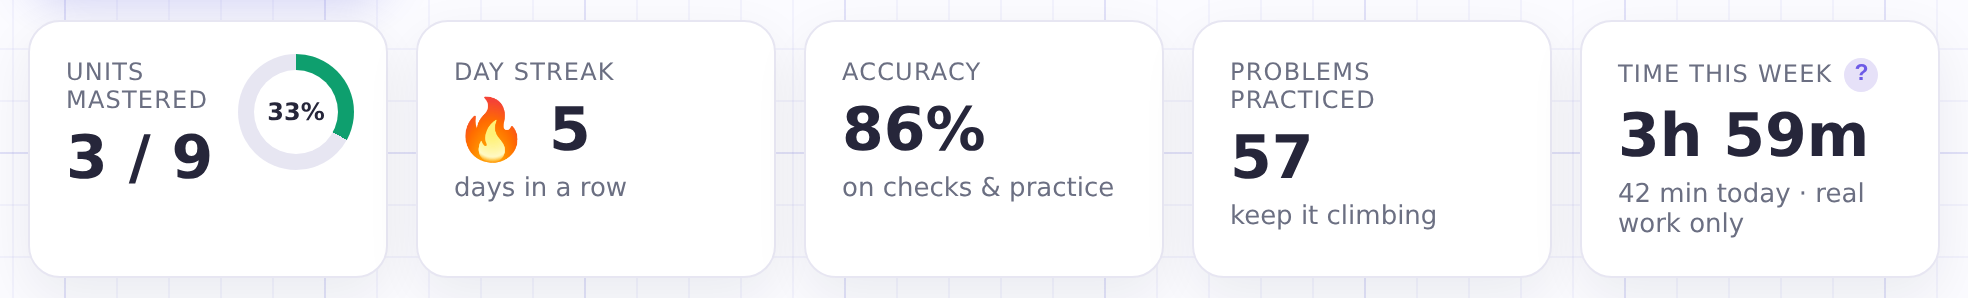
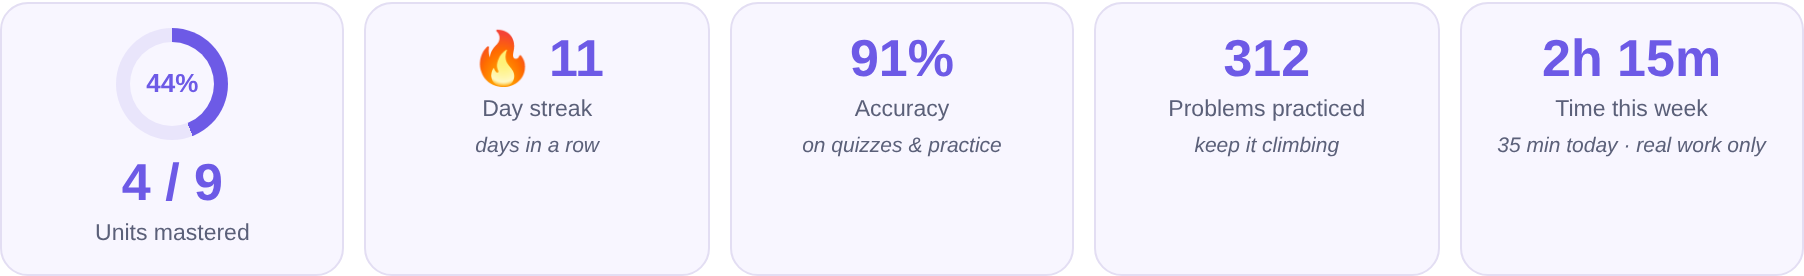
n

diff --git a/static/homeschool.html b/static/homeschool.html
@@ -1,5 +1,15 @@
 <!DOCTYPE html>
 <!--
+    (fd) 2026-08-13 -- SCREENSHOT REFRESH + ONE STUDENT, ONE SET OF NUMBERS. All the
+    shots on this page were re-captured from the CURRENT demo, and re-capturing them
+    exposed that this page told a visitor three different stories about the same named
+    sample student: the honest-hours paragraph and the tile picture under it said "3h 59m"
+    while the tile itself now reads 2h 15m, and the weekly-email preview claimed "best
+    check 72%" on Decimals when Maya's dashboard shows two topic quizzes passed at 88% and
+    92%. Every number on this page is now Maya's real demo record -- 2h 15m across 5 days,
+    Decimals with two topic quizzes passed and the Unit Quiz still ahead. That matters
+    more here than anywhere: this is the page that promises the records can be filed with
+    a straight face. Nothing else changed; the FAQ is byte-identical.
     (ef) 2026-08-12 -- THE CONFERENCE PITCH REWORK (Jim, from a homeschooling
     conference: "lead with and strengthen these points"). Same content, new spine.
     The page now leads with what homeschool families told us matters most and answers
@@ -298,9 +308,9 @@
   <h2 style="text-align:center">We track time the way a homeschool log needs it — <span class="grad-text">real work only</span>.</h2>
   <p class="sub" style="text-align:center;margin-top:8px">Mr. Cadabra's Classroom counts a minute only when the lesson tab is actually open
   <b>and</b> your student is actually doing something. Walk away, switch tabs, leave it running — the clock stops.
-  So "3h 59m this week" means three hours and fifty-nine minutes of <i>math</i>, a number you can put in an
+  So "2h 15m this week" means two hours and fifteen minutes of <i>math</i>, a number you can put in an
   instructional-hours log with a straight face.</p>
-  <img class="shot" src="/static/shots/timetile.png" style="margin-top:22px" alt="Dashboard tiles: units mastered, day streak, accuracy, problems practiced, and time this week — 3h 59m, real work only" />
+  <img class="shot" src="/static/shots/timetile.png" style="margin-top:22px" alt="Dashboard tiles: units mastered, day streak, accuracy, problems practiced, and time this week — 2h 15m, real work only" />
   <p class="cap">Every dashboard shows it: today, this week, per course. <i>(Sample data.)</i></p>
 </section>
 
@@ -355,9 +365,9 @@
         <p style="font-size:13px;color:var(--muted);letter-spacing:.04em;text-transform:uppercase;font-weight:700">Preview</p>
         <p style="font-size:15px;margin-top:8px"><b>Maya's week with Mr. Cadabra's Classroom</b></p>
         <ul class="units" style="margin-top:10px">
-          <li><b>⏱</b> 3h 59m of real work across 5 days</li>
+          <li><b>⏱</b> 2h 15m of real work across 5 days</li>
           <li><b>★</b> Mastered: Fractions (check score 92%)</li>
-          <li><b>↗</b> Working on: Decimals — best check 72%</li>
+          <li><b>↗</b> Working on: Decimals — two topic quizzes passed, Unit Quiz still to come</li>
           <li><b>💡</b> This week: ten minutes of percent practice would go a long way</li>
         </ul>
       </div>

diff --git a/static/students.html b/static/students.html
@@ -1,5 +1,13 @@
 <!DOCTYPE html>
 <!--
+    (fd) 2026-08-13 -- SCREENSHOT REFRESH + ALT TEXT MADE TRUE. shots/dashboard-full.png
+    was re-captured from the CURRENT demo and is now the WHOLE student dashboard (all
+    eleven cards, top to trophy case), because the caption under it on this page promises
+    "the whole picture -- trophies, badges, journey, and honest stats" and the old shot
+    stopped well short of the trophy case. The alt text described cards that are not in
+    the picture at all ("NEW! tags", "merit badge count", "next-award nudge", "mastery
+    breakdown bar") and is rewritten to name what a sighted visitor actually sees, in
+    order. Copy otherwise untouched.
     (eb) 2026-08-11 -- STUDENT FAQ AT THE BOTTOM (Jim: "a FAQ section on the bottom of the
     homeschool, the parent, teacher and student pages... different FAQs because they have
     different questions, especially the students"). Eight questions in a student's own
@@ -276,7 +284,7 @@
     "Strengthen next" when you want the fastest win.</p>
   </div>
   <img class="shot" src="/static/shots/dashboard-full.png" style="margin-top:24px"
-       alt="The full student dashboard: the trophy case with earned medals and NEW! tags, merit badge count, next-award nudge, stat tiles, strengthen-next suggestions, the nine-unit learning journey with gold mastered units, and the mastery breakdown bar" />
+       alt="The full student dashboard: a written note on how the student is doing, stat tiles for units mastered, day streak, accuracy, problems practiced and honest time, the nine-unit grid with gold mastered units, quiz results, strengthen-next suggestions, the learning journey path, accuracy and minutes-a-day charts, the next three planned sessions, the trophy case with earned medals, and both courses" />
   <p class="cap">The whole picture — trophies, badges, journey, and honest stats. <i>(Sample data.)</i></p>
 </section>
 

diff --git a/static/parents.html b/static/parents.html
@@ -1,5 +1,11 @@
 <!DOCTYPE html>
 <!--
+    (fd) 2026-08-13 -- ONE STUDENT, ONE SET OF NUMBERS. shots/lesson.png and
+    shots/parent.png were re-captured from the CURRENT demo, and the weekly-email preview
+    on this page disagreed with the parent-view picture beside it about the same named
+    sample student: it claimed 3h 59m when Maya's week is 2h 15m, and "best check 72%" on
+    Decimals when her dashboard shows two topic quizzes passed at 88% and 92%. Preview
+    corrected to her real demo record. No other copy touched.
     (eb) 2026-08-11 -- PARENT FAQ AT THE BOTTOM (Jim: "a FAQ section on the bottom of the
     homeschool, the parent, teacher and student pages... different FAQs because they have
     different questions"). Eight questions a paying parent actually asks (can we try it
@@ -275,9 +281,9 @@
         <p style="font-size:13px;color:var(--muted);letter-spacing:.04em;text-transform:uppercase;font-weight:700">Preview</p>
         <p style="font-size:15px;margin-top:8px"><b>Maya's week with Mr. Cadabra's Classroom</b></p>
         <ul class="units" style="margin-top:10px">
-          <li><b>⏱</b> 3h 59m of real work across 5 days</li>
+          <li><b>⏱</b> 2h 15m of real work across 5 days</li>
           <li><b>★</b> Mastered: Fractions (check score 92%)</li>
-          <li><b>↗</b> Working on: Decimals — best check 72%</li>
+          <li><b>↗</b> Working on: Decimals — two topic quizzes passed, Unit Quiz still to come</li>
           <li><b>💡</b> This week: ten minutes of percent practice would go a long way</li>
         </ul>
       </div>

diff --git a/static/teachers.html b/static/teachers.html
@@ -1,5 +1,9 @@
 <!DOCTYPE html>
 <!--
+    (fd) 2026-08-13 -- SCREENSHOT REFRESH + ALT TEXT MADE TRUE. shots/teacher.png was
+    re-captured from the CURRENT demo class view. The sample class has SIX students in it
+    (it had five when the old shot was taken), so the alt text said "five students" over a
+    picture of six. Alt corrected; no visible copy changed.
     (eb) 2026-08-11 -- TEACHER FAQ AT THE BOTTOM (Jim: "a FAQ section on the bottom of the
     homeschool, the parent, teacher and student pages... different FAQs because they have
     different questions"). Eight questions a teacher or co-op leader actually asks (how do
@@ -231,7 +235,7 @@
 </section>
 
 <section class="wrap">
-  <img class="shot" src="/static/shots/teacher.png" alt="Mr. Cadabra's Classroom teacher dashboard: a class mastery heatmap showing five students' best check scores across nine Pre-Algebra units" />
+  <img class="shot" src="/static/shots/teacher.png" alt="Mr. Cadabra's Classroom teacher dashboard: a class mastery heatmap showing six students' best check scores across nine Pre-Algebra units" />
   <p class="cap">The class mastery heatmap — best check score per unit, gold star at 90%+. <i>(Shown with sample data.)</i></p>
 </section>
 <section class="wrap"><div class="grid g3">

diff --git a/ruletests.py b/ruletests.py
@@ -2,6 +2,20 @@
 # ruletests.py  --  the RULE REGRESSION BATTERY  --  Hyperion Shift LLC
 # -----------------------------------------------------------------------------
 # CHANGE NOTES (keep newest at top):
+#   2026-08-13  BUILD fd -- THE PICTURES AND THE PROSE (NEW PART 3ag). Every screenshot
+#               on the public site is a photograph of the DEMO -- that is why they can be
+#               trusted, and it is also why the copy drifts: the demo changes and the
+#               marketing pages have no idea. Re-capturing the shots for the beta push
+#               found /homeschool claiming "3h 59m this week" in the paragraph, in the
+#               alt text AND in the weekly-email preview, directly above a tile reading
+#               2h 15m -- on the page whose whole promise is "a number you can put in an
+#               instructional-hours log with a straight face". PART 3ag now reads the
+#               numbers out of demo.html at test time and holds the copy to them: Maya's
+#               week, the tile's ALT text (the version no sighted proofreader ever sees),
+#               the heatmap's student count, and the Decimals scores in the email
+#               preview. It also weighs every shot file -- a blank whiteboard is a 40 KB
+#               PNG with a perfectly valid filename, which is exactly what the first
+#               re-capture produced. Negative-tested: each mutation fails it.
 #   2026-08-13  BUILD fc -- THE TRIAL ON THE DASHBOARD, GUARDED (PART 3af extended). The
 #               safety-critical property is ISOLATION: the trial invents a parent, a
 #               child, a teacher and a class, so it must run as a SEPARATE PROCESS with
@@ -5927,6 +5941,149 @@ def part3z_reply_integrity():
 
 
 # =============================================================================
+# PART 3ag -- THE PICTURES AND THE PROSE TELL THE SAME STORY (build fd, 2026-08-13)
+# =============================================================================
+# Jim, preparing to invite beta testers: "I want everything to be current, ready to
+# go, showcase, preparation."
+#
+# Every screenshot on the public site is a photograph of the DEMO. That is the whole
+# reason they can be trusted -- they are not mockups, they are the product. But it
+# also means the demo is the single source of truth for every number the marketing
+# copy quotes, and the copy has no idea when the demo changes underneath it. Today's
+# re-capture caught exactly that drift, on the page that can least afford it:
+#
+#   * /homeschool said "3h 59m this week" in the paragraph, in the alt text, and in the
+#     weekly-email preview -- directly above a freshly-captured tile reading 2h 15m.
+#     That is the page whose promise is "a number you can put in an instructional-hours
+#     log with a straight face."
+#   * /parents' email preview claimed "best check 72%" on Decimals beside a picture of
+#     Maya's dashboard showing two topic quizzes passed at 88% and 92%.
+#   * /teachers' alt text said "five students" over a heatmap of six.
+#
+# So: the numbers in the copy are read out of demo.html at test time. If the demo's
+# sample student ever changes again, this PART fails the same day instead of leaving a
+# visitor to spot the contradiction.
+def part3ag_shots_match_copy():
+    print("\nPART 3ag — the pictures and the prose tell the same story (build fd)")
+    here = os.path.dirname(os.path.abspath(__file__))
+    st = os.path.join(here, "static")
+    demo = open(os.path.join(st, "demo.html"), encoding="utf-8").read()
+
+    def page(n):
+        return open(os.path.join(st, n), encoding="utf-8").read()
+
+    # ---- 1. every shot a page points at actually exists, and is a real picture ----
+    # A blank whiteboard is a 40 KB file; a real one is 400 KB+. The first capture in
+    # this build WAS blank (the voice was stubbed out, so the script never advanced and
+    # no step was ever drawn) and it looked perfectly fine as a filename.
+    refs = set()
+    for name in sorted(os.listdir(st)):
+        if not name.endswith(".html"):
+            continue
+        for s in re.findall(r'/static/shots/([A-Za-z0-9_.-]+\.png)', page(name)):
+            refs.add(s)
+    check("the site points at at least the six product shots", len(refs) >= 6,
+          f"only found {sorted(refs)}")
+    for s in sorted(refs):
+        p = os.path.join(st, "shots", s)
+        ok = os.path.exists(p)
+        size = os.path.getsize(p) if ok else 0
+        check(f"  shots/{s} exists and is a real screenshot", ok and size > 40000,
+              f"missing" if not ok else f"only {size} bytes -- a near-empty capture "
+              "(a blank whiteboard weighs about this much and still has a valid filename)")
+
+    # ---- 2. the hours: one student, one number, everywhere ----
+    # Read the demo's own "Time this week" tile rather than hard-coding it here, so this
+    # test keeps working the day the sample student's week changes.
+    m = re.search(r'<div class="tile"><b>([^<]+)</b><span>Time this week', demo)
+    check("the demo's student tile still names a weekly time", bool(m),
+          "the tile markup moved; this whole PART reads the demo for its numbers")
+    hours = m.group(1).strip() if m else ""
+    demo_times = set(re.findall(r"\b\d+h \d+m\b", demo))
+    pages = ("homeschool.html", "parents.html", "landing.html", "students.html",
+             "teachers.html", "index.html", "family.html", "pricing.html")
+    # MAYA specifically: she is the student in every screenshot, so any weekly time the
+    # copy gives HER has to be the one in the picture. Other sample children (the class
+    # email preview on /teachers invents an Ava and a Ben) are free to have their own
+    # weeks -- they are not photographed anywhere.
+    for name in pages:
+        body = re.sub(r"<!--.*?-->", "", page(name), flags=re.S)   # change notes are not copy
+        for block in re.findall(r"Maya(?:'s)?\b.{0,700}?</ul>", body, re.S):
+            wrong = sorted({h for h in re.findall(r"\b\d+h \d+m\b", block) if h != hours})
+            check(f"  {name}: Maya's week reads {hours}, the same as her picture",
+                  not wrong,
+                  f"says {wrong} where the screenshot on this page says {hours} -- a "
+                  "visitor reads the number and the picture together")
+    # The alt text under the tile picture is copy too -- it was one of the three places
+    # /homeschool said "3h 59m" over a picture of 2h 15m, and it is the one a sighted
+    # proofreader never sees.
+    for name in pages:
+        body = re.sub(r"<!--.*?-->", "", page(name), flags=re.S)
+        for tag in re.findall(r'<img[^>]*shots/timetile\.png[^>]*>', body):
+            alt = re.search(r'alt="([^"]*)"', tag)
+            wrong = sorted({h for h in re.findall(r"\b\d+h \d+m\b", alt.group(1) if alt else "")
+                            if h != hours})
+            check(f"  {name}: the tile picture's ALT text reads {hours} too", not wrong,
+                  f"alt says {wrong} -- alt text is the only version of this picture a "
+                  "blind visitor and every search engine ever get")
+    # Times that belong to a DIFFERENT sample child are fine (the class email preview on
+    # /teachers invents an Ava and a Ben, and nothing photographs them). Times that
+    # belong to nobody at all are a leftover, and that is what "3h 59m" was.
+    KNOWN_OTHERS = ("Ava", "Ben", "Sofia", "Priya", "Jonah", "Aiden")
+    for name in pages:
+        body = re.sub(r"<!--.*?-->", "", page(name), flags=re.S)
+        for mm in re.finditer(r"\b\d+h \d+m\b", body):
+            h = mm.group(0)
+            near = body[max(0, mm.start() - 120):mm.start()]
+            owned = any(w in near for w in KNOWN_OTHERS)
+            check(f"  {name}: {h} belongs to somebody -- the demo, or a named sample child",
+                  h in demo_times or owned,
+                  f"{h} matches no time in the demo and sits under no student's name, so "
+                  "no screenshot anywhere can back it up")
+
+    # ---- 3. the honest-hours paragraph spells out the SAME number it shows ----
+    hs = page("homeschool.html")
+    spelled = {"2h 15m": "two hours and fifteen minutes",
+               "3h 59m": "three hours and fifty-nine minutes"}.get(hours)
+    if spelled:
+        check("  /homeschool spells the hours out to match the tile above the log claim",
+              spelled in hs,
+              f'the paragraph must read "{spelled}" -- it is the sentence that promises '
+              "the number can go in an instructional-hours log with a straight face")
+
+    # ---- 4. the teacher shot's alt text counts the students in the picture ----
+    heat = re.search(r'id="tdHeat".*?</div>\s*</div>', demo, re.S)
+    rows = len(re.findall(r'<div class="hrow">', heat.group(0))) if heat else 0
+    words = {5: "five", 6: "six", 7: "seven", 8: "eight", 9: "nine", 10: "ten"}
+    check("the demo heatmap still has a countable roster", rows in words,
+          f"found {rows} rows")
+    if rows in words:
+        alt = re.search(r'<img[^>]*shots/teacher\.png[^>]*alt="([^"]*)"', page("teachers.html"))
+        check(f"  /teachers' alt text says {words[rows]} students, matching the picture",
+              bool(alt) and f"{words[rows]} students" in alt.group(1),
+              f"the heatmap shows {rows} students; alt says "
+              f"{alt.group(1) if alt else '(no alt at all)'} -- alt text is what a "
+              "blind visitor and every search engine are told the picture contains")
+
+    # ---- 5. the weekly-email preview agrees with the dashboard beside it ----
+    # Maya's Decimals topic quizzes read 88% and 92% PASSED on the shot. A preview that
+    # says "best check 72%" is describing a different child.
+    for name in ("homeschool.html", "parents.html"):
+        body = re.sub(r"<!--.*?-->", "", page(name), flags=re.S)   # notes are not copy
+        check(f"  {name}'s weekly-email preview does not contradict her quiz results",
+              "best check 72%" not in body,
+              "the parent-view screenshot on this same page shows two Decimals topic "
+              "quizzes passed at 88% and 92%")
+
+    # ---- 6. nothing on the site claims a screenshot that was retired ----
+    check("no page still shows the retired math-keyboard screenshot",
+          not any('shots/keyboard.png' in re.sub(r"<!--.*?-->", "", page(n), flags=re.S)
+                  for n in os.listdir(st) if n.endswith(".html")),
+          "the math keyboard was retired in build ao; showing it advertises a product "
+          "that no longer exists")
+
+
+# =============================================================================
 # PART 3af -- THE FULL JOURNEY, END TO END (build fb, 2026-08-13)
 # =============================================================================
 # Jim's brief: "run to make sure from start to finish that this works outside of the
@@ -6800,6 +6957,7 @@ def main():
     part3ad_clip_never_eats()
     part3ae_classroom_locked()
     part3af_full_journey()
+    part3ag_shots_match_copy()
     if live:
         part4_live()
     else:

diff --git a/main.py b/main.py
@@ -2,6 +2,27 @@
 # main.py  --  Math Tutor MVP  --  Hyperion Shift LLC
 # -----------------------------------------------------------------------------
 # CHANGE NOTES (keep newest at top):
+#   2026-08-13  APP_BUILD -> "2026-08-13fd-showcase-ready". THE PUBLIC PAGES AND THE
+#               DEMO, MADE CURRENT FOR BETA TESTERS. Jim: "I'm gonna make a push for
+#               seeing if I can get some beta testers... take a look at the pages
+#               itself. Take a look at the demos and update the demos that need to be
+#               updated. I want everything to be current, ready to go, showcase."
+#               No Python changed in this build except this line -- the work is in
+#               static/ -- but the build string is what tells Render, and Jim, that the
+#               site he is about to show strangers is the one he just looked at.
+#               WHAT CHANGED: all six product screenshots re-captured from the CURRENT
+#               demo (they dated from 2026-08-04, before Mr. Cadabra's real face and
+#               before all four demo doors were rewritten), and the marketing copy that
+#               had quietly drifted away from them corrected -- /homeschool said "3h 59m"
+#               in three places above a tile reading 2h 15m, /parents' weekly-email
+#               preview described a different child's quiz scores than the dashboard
+#               beside it, /teachers' alt text counted five students in a picture of six,
+#               and /students' alt text described four cards that were not in the frame.
+#               NEW ruletests PART 3ag reads those numbers OUT OF demo.html at test time,
+#               so the next time the demo's sample student changes, the battery fails the
+#               same day instead of leaving a visitor to spot the contradiction.
+#               Also driven, not read: every one of the ten demo levels, all four
+#               audience doors, and the whole Algebra I lesson to its ending. Clean.
 #   2026-08-13  APP_BUILD -> "2026-08-13fc-trial-on-admin". THE FULL-JOURNEY TRIAL MOVES
 #               TO THE DASHBOARD. Jim: "is it possible to build that into the admin
 #               dashboard? And maybe it could even ask a couple of questions like, what do
@@ -6897,7 +6918,7 @@ def get_placement(code: str, request: Request, course: str = "algebra1"):
 # Bump this string whenever the backend changes. It's shown at /health so we can CONFIRM
 # Render actually redeployed the new code (if /health still shows an old build, the deploy
 # didn't happen -- which would explain why prompt/whiteboard changes aren't taking effect).
-APP_BUILD = "2026-08-13fc-trial-on-admin"
+APP_BUILD = "2026-08-13fd-showcase-ready"
 
 
 @app.get("/health")
